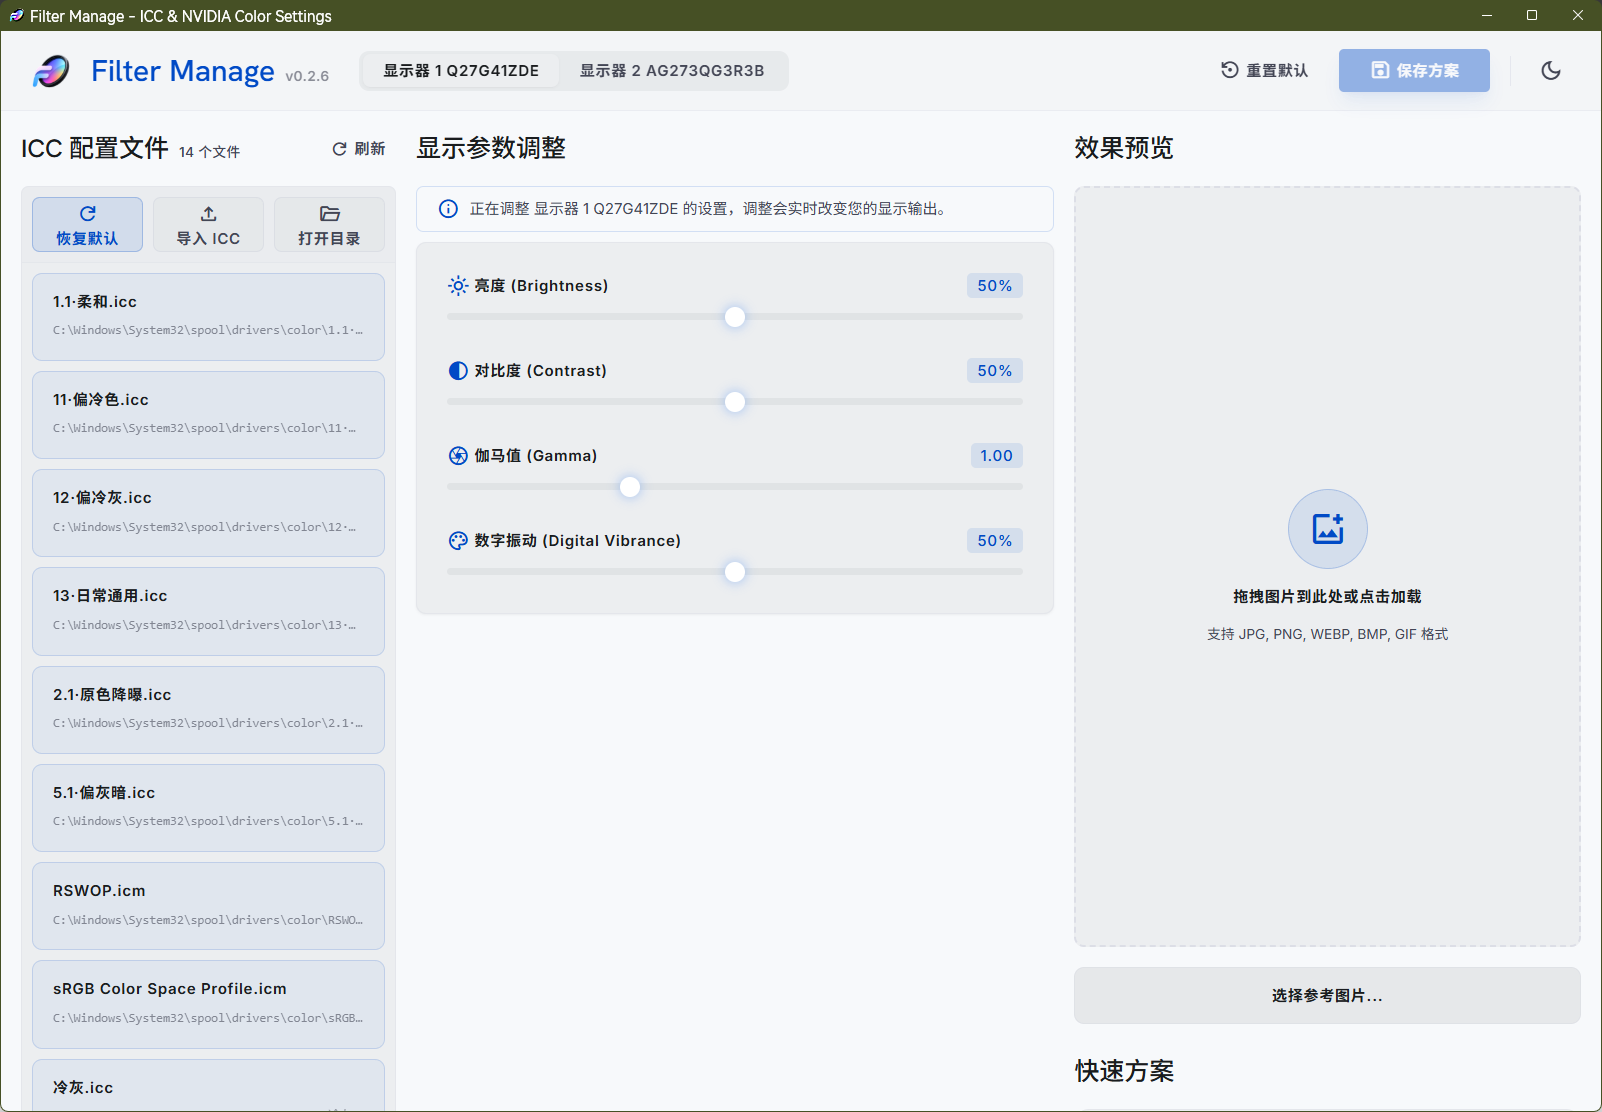
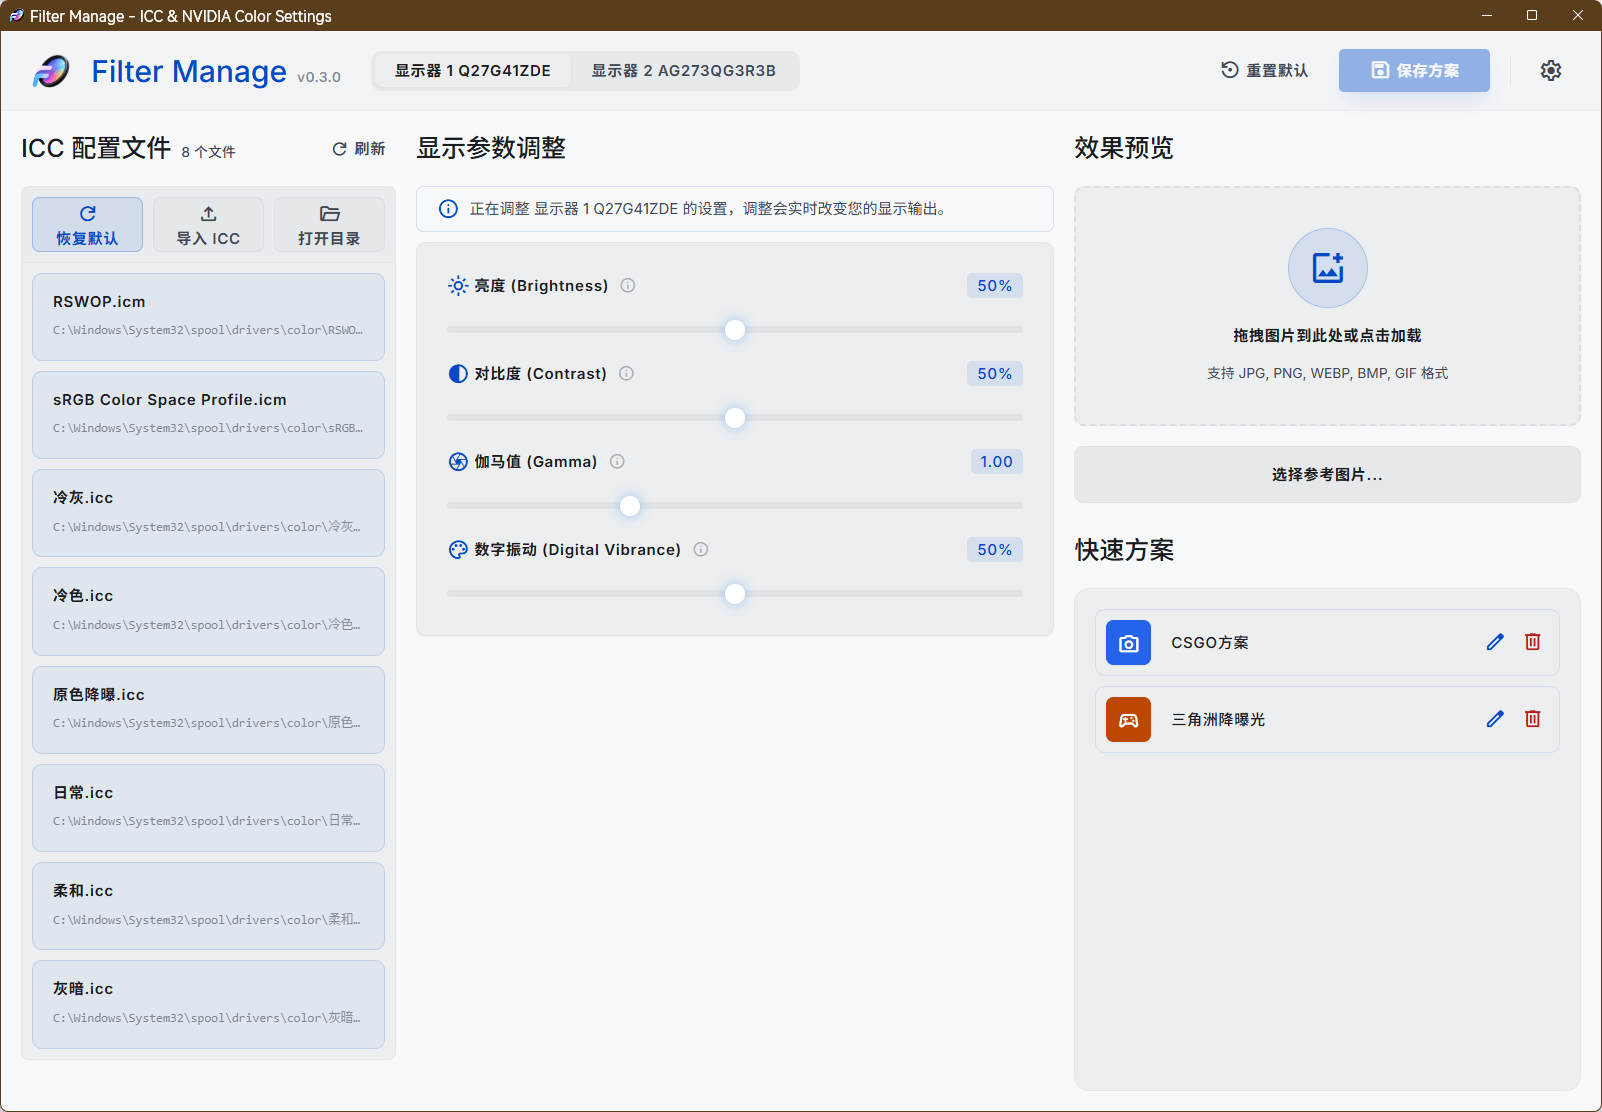
feat: 添加功能预览轮播组件，更新主题特色描述
- 新增轻量级 FeatureShowcase 轮播组件
- 支持自动播放、手动切换、渐变动画
- 更新暗色/亮色模式预览截图
- 添加常规设置、快捷键、显示适配、进程监听截图
- 更新主题特色描述

diff --git a/docs/.vitepress/theme/components/FeatureShowcase.vue b/docs/.vitepress/theme/components/FeatureShowcase.vue
@@ -1,0 +1,249 @@
+<template>
+  <div class="feature-showcase">
+    <div class="showcase-content">
+      <div class="showcase-image">
+        <Transition name="fade" mode="out-in">
+          <img 
+            :key="currentSlide" 
+            :src="slides[currentSlide].image" 
+            :alt="slides[currentSlide].title"
+            loading="lazy"
+          />
+        </Transition>
+      </div>
+      <div class="showcase-info">
+        <Transition name="slide-up" mode="out-in">
+          <div :key="currentSlide" class="info-content">
+            <span class="slide-badge">{{ currentSlide + 1 }} / {{ slides.length }}</span>
+            <h3 class="slide-title">{{ slides[currentSlide].title }}</h3>
+            <p class="slide-desc">{{ slides[currentSlide].description }}</p>
+          </div>
+        </Transition>
+        <div class="slide-dots">
+          <button 
+            v-for="(slide, index) in slides" 
+            :key="index"
+            :class="['dot', { active: currentSlide === index }]"
+            @click="goTo(index)"
+            :aria-label="slide.title"
+          />
+        </div>
+      </div>
+    </div>
+  </div>
+</template>
+
+<script setup>
+import { ref, onMounted, onUnmounted } from 'vue'
+
+const props = defineProps({
+  autoPlay: {
+    type: Boolean,
+    default: true
+  },
+  interval: {
+    type: Number,
+    default: 4000
+  }
+})
+
+const slides = [
+  {
+    image: '/preview/dark-mode.png',
+    title: '暗色模式',
+    description: '深邃优雅的深色背景，适合夜间使用，保护眼睛，减少视觉疲劳'
+  },
+  {
+    image: '/preview/light-mode.png',
+    title: '亮色模式',
+    description: '清新明亮的白色基调，适合日间使用，精致的阴影和边框效果'
+  },
+  {
+    image: '/preview/settings-general.png',
+    title: '常规设置',
+    description: '配置应用基本参数，自定义启动行为和窗口显示方式'
+  },
+  {
+    image: '/preview/settings-shortcut.png',
+    title: '快捷键设置',
+    description: '设置全局快捷键，快速切换配置方案，提升操作效率'
+  },
+  {
+    image: '/preview/settings-display.png',
+    title: '显示适配',
+    description: '支持多显示器，为每个显示器单独配置 ICC 和颜色设置'
+  },
+  {
+    image: '/preview/settings-process.png',
+    title: '进程监听',
+    description: '设置进程规则，启动指定程序时自动切换配置方案'
+  }
+]
+
+const currentSlide = ref(0)
+let timer = null
+
+function next() {
+  currentSlide.value = (currentSlide.value + 1) % slides.length
+}
+
+function goTo(index) {
+  currentSlide.value = index
+  resetTimer()
+}
+
+function resetTimer() {
+  if (timer) clearInterval(timer)
+  if (props.autoPlay) {
+    timer = setInterval(next, props.interval)
+  }
+}
+
+onMounted(() => {
+  resetTimer()
+})
+
+onUnmounted(() => {
+  if (timer) clearInterval(timer)
+})
+</script>
+
+<style scoped>
+.feature-showcase {
+  max-width: 900px;
+  margin: 0 auto;
+}
+
+.showcase-content {
+  display: flex;
+  gap: 40px;
+  align-items: center;
+}
+
+.showcase-image {
+  flex: 1;
+  min-width: 0;
+  border-radius: 12px;
+  overflow: hidden;
+  box-shadow: 0 8px 32px rgba(0, 0, 0, 0.1);
+  background: var(--vp-c-bg-soft);
+}
+
+.showcase-image img {
+  display: block;
+  width: 100%;
+  height: auto;
+  aspect-ratio: 16/10;
+  object-fit: cover;
+}
+
+.showcase-info {
+  flex: 0 0 280px;
+  min-height: 180px;
+  display: flex;
+  flex-direction: column;
+  justify-content: center;
+}
+
+.info-content {
+  margin-bottom: 24px;
+}
+
+.slide-badge {
+  display: inline-block;
+  padding: 2px 10px;
+  font-size: 12px;
+  font-weight: 500;
+  color: var(--vp-c-brand-1);
+  background: var(--vp-c-brand-soft);
+  border-radius: 12px;
+  margin-bottom: 12px;
+}
+
+.slide-title {
+  font-size: 24px;
+  font-weight: 700;
+  color: var(--vp-c-text-1);
+  margin: 0 0 10px 0;
+  line-height: 1.3;
+}
+
+.slide-desc {
+  font-size: 14px;
+  color: var(--vp-c-text-2);
+  line-height: 1.7;
+  margin: 0;
+}
+
+.slide-dots {
+  display: flex;
+  gap: 8px;
+}
+
+.dot {
+  width: 8px;
+  height: 8px;
+  border-radius: 50%;
+  border: none;
+  background: var(--vp-c-divider);
+  cursor: pointer;
+  padding: 0;
+  transition: all 0.3s ease;
+}
+
+.dot:hover {
+  background: var(--vp-c-text-3);
+}
+
+.dot.active {
+  background: var(--vp-c-brand-1);
+  width: 24px;
+  border-radius: 4px;
+}
+
+/* 动画 */
+.fade-enter-active,
+.fade-leave-active {
+  transition: opacity 0.3s ease;
+}
+
+.fade-enter-from,
+.fade-leave-to {
+  opacity: 0;
+}
+
+.slide-up-enter-active {
+  transition: all 0.3s ease;
+}
+
+.slide-up-leave-active {
+  transition: all 0.2s ease;
+}
+
+.slide-up-enter-from {
+  opacity: 0;
+  transform: translateY(10px);
+}
+
+.slide-up-leave-to {
+  opacity: 0;
+  transform: translateY(-10px);
+}
+
+@media (max-width: 768px) {
+  .showcase-content {
+    flex-direction: column;
+    gap: 24px;
+  }
+  
+  .showcase-info {
+    flex: 1;
+    min-height: auto;
+    text-align: center;
+  }
+  
+  .slide-dots {
+    justify-content: center;
+  }
+}
+</style>

diff --git a/docs/.vitepress/theme/index.ts b/docs/.vitepress/theme/index.ts
@@ -3,6 +3,7 @@ import './custom.css'
 import ThemeCarousel from './components/ThemeCarousel.vue'
 import SiteNotice from './components/SiteNotice.vue'
 import SiteBadge from './components/SiteBadge.vue'
+import FeatureShowcase from './components/FeatureShowcase.vue'
 import Layout from './Layout.vue'
 
 export default {
@@ -11,5 +12,6 @@ export default {
     app.component('ThemeCarousel', ThemeCarousel)
     app.component('SiteNotice', SiteNotice)
     app.component('SiteBadge', SiteBadge)
+    app.component('FeatureShowcase', FeatureShowcase)
   }
 }

diff --git a/docs/index.md b/docs/index.md
@@ -36,15 +36,13 @@ features:
     details: 支持亮色/暗色主题切换，保护您的眼睛
 ---
 
-## 界面预览
+## 功能预览
 
-<ThemeCarousel />
+<FeatureShowcase />
 
-### 主题特色
+## 主题特色
 
-Filter Manage 采用精致的设计语言，提供优质的视觉体验：
+Filter Manage 支持亮色/暗色主题切换，点击右上角的太阳/月亮图标即可一键切换：
 
-- **亮色模式**：清新明亮，适合日间使用，减少视觉疲劳
-- **暗色模式**：深邃优雅，适合夜间使用，保护眼睛
-
-点击右上角的太阳/月亮图标即可一键切换主题。
+- **暗色模式**：深邃优雅的深色背景，适合夜间使用，保护眼睛
+- **亮色模式**：清新明亮的白色基调，适合日间使用，减少视觉疲劳
